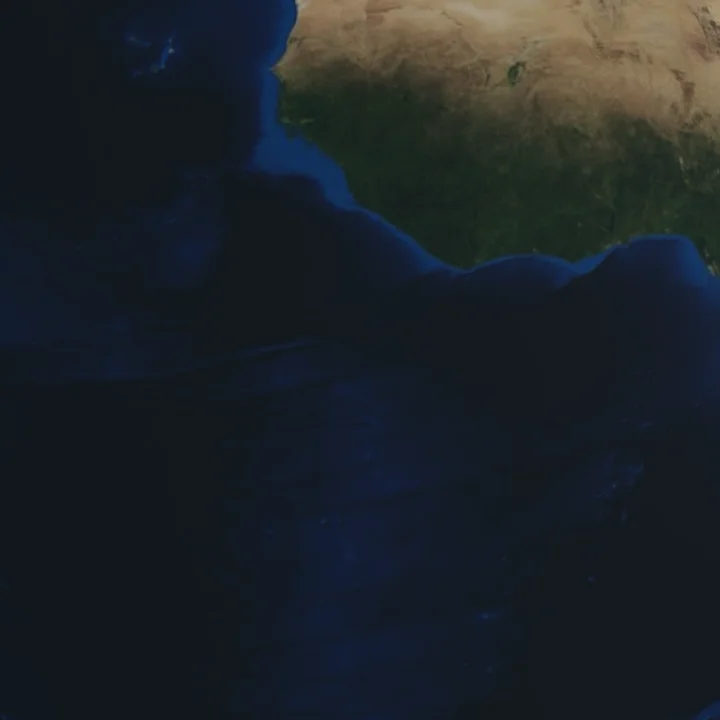
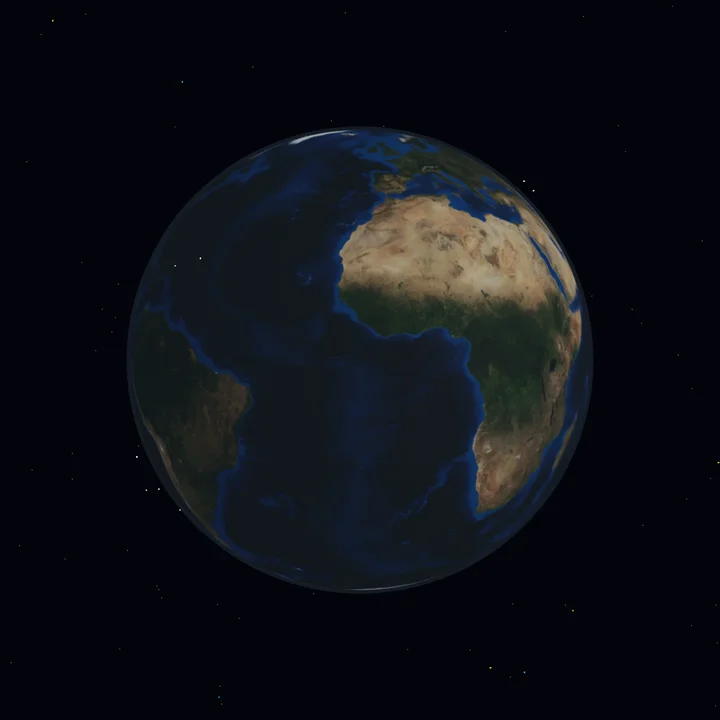
Update Orbital View hub card with refreshed preview image

diff --git a/index.html b/index.html
@@ -153,7 +153,7 @@
           <a class="card" href="https://orbital.markmaga.com" data-app="satellite-app" aria-label="Orbital View">
             <span class="card-media">
               <img
-                src="images/satellite-app.webp?v=4"
+                src="images/satellite-app.webp?v=5"
                 alt=""
                 width="720"
                 height="720"
@@ -165,7 +165,7 @@
               </span>
             </span>
           </a>
-          <p class="card-hint">Drag slider for orbital patterns · tap Constellations to select</p>
+          <p class="card-hint">3D Earth and live satellites · slide time · tap Constellations · pinch to zoom</p>
         </li>
 
         <li class="grid-item">